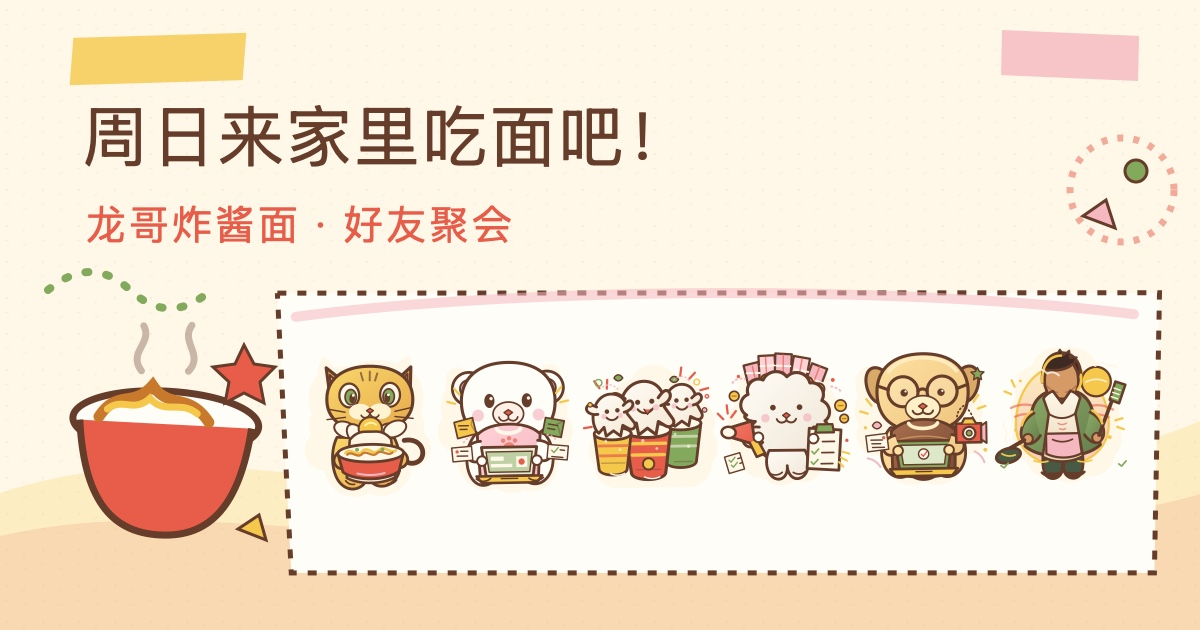
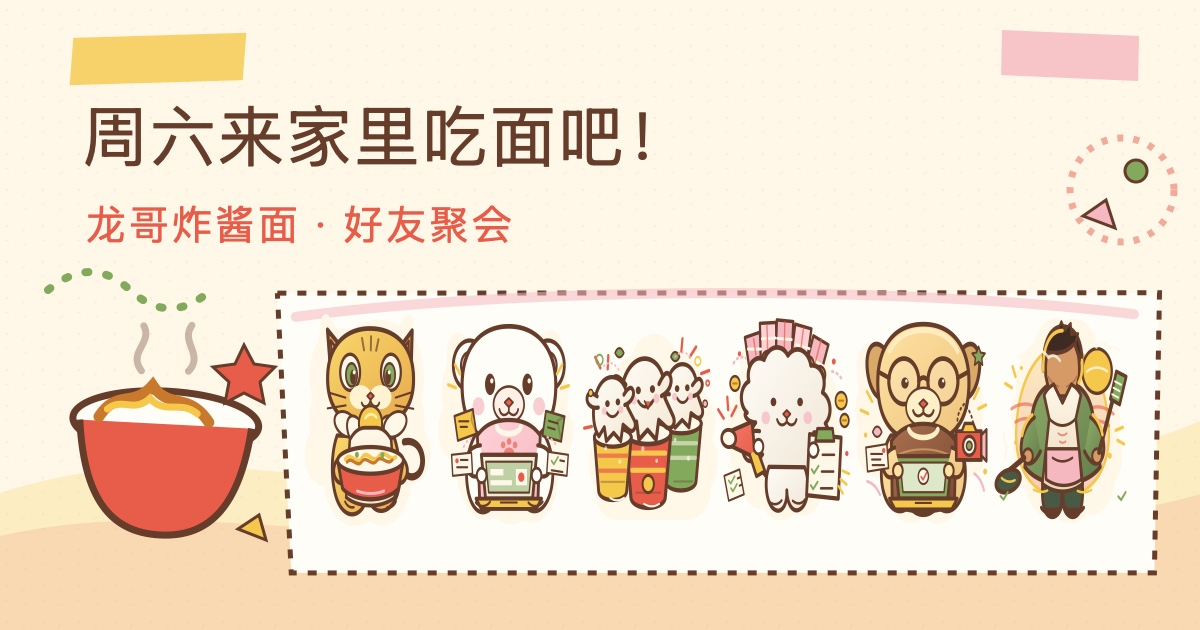
fix: update party date to Saturday

Changed region(s): [[0.2467, 0.4825, 0.9558, 0.8444], [0.1233, 0.1508, 0.185, 0.2714]]

diff --git a/index.html b/index.html
@@ -3,11 +3,11 @@
   <head>
     <meta charset="utf-8">
     <meta name="viewport" content="width=device-width, initial-scale=1">
-    <title>周日面聚会邀请</title>
-    <meta name="description" content="2026 年 7 月 19 日，来家里吃龙哥炸酱面，和朋友一起过个热闹周日。">
+    <title>周六面聚会邀请</title>
+    <meta name="description" content="2026 年 7 月 18 日，来家里吃龙哥炸酱面，和朋友一起过个热闹周六。">
     <meta name="theme-color" content="#fff8e8">
-    <meta property="og:title" content="周日来家里吃面吧！">
-    <meta property="og:description" content="龙哥炸酱面 · 好友聚会，2026.07.19 周日。">
+    <meta property="og:title" content="周六来家里吃面吧！">
+    <meta property="og:description" content="龙哥炸酱面 · 好友聚会，2026.07.18 周六。">
     <meta property="og:type" content="website">
     <meta property="og:image" content="assets/og/party-preview.jpg">
     <script>document.documentElement.classList.add('js')</script>
@@ -28,8 +28,8 @@
     <main id="main-content">
       <header class="cover" aria-labelledby="invitation-title">
         <p class="cover__eyebrow">龙哥炸酱面 · 好友聚会</p>
-        <h1 id="invitation-title">周日来家里吃面吧！</h1>
-        <time datetime="2026-07-19">2026.07.19 周日</time>
+        <h1 id="invitation-title">周六来家里吃面吧！</h1>
+        <time datetime="2026-07-18">2026.07.18 周六</time>
         <div class="cover__door" role="group" aria-label="两位主人在门口等你">
           <img src="assets/characters/blogger-dog.svg" alt="小红书千粉博主">
           <button type="button" data-action="doorbell" aria-label="按门铃">
@@ -205,7 +205,7 @@
 
       <section class="group-photo" aria-labelledby="group-photo-title" data-photo-lock>
         <p class="group-photo__lock">🔒 六个环节全部翻阅后解锁合影</p>
-        <h2 id="group-photo-title">周日合影</h2>
+        <h2 id="group-photo-title">周六合影</h2>
         <img src="assets/characters/group-photo.png" alt="四位客人与两位主人的聚会合影">
         <p>普通的一顿饭，因为是我们，就变成了值得保存的一天。</p>
         <p><strong>明天见，不见不散！</strong></p>

diff --git a/js/content.js b/js/content.js
@@ -1,9 +1,9 @@
 const address = '北京市昌平区风雅园一区 15 号楼 1 单元 303';
 
 export const eventDetails = {
-  title: '周日来家里吃面吧！',
-  date: '2026-07-19',
-  dateDisplay: '2026.07.19 周日',
+  title: '周六来家里吃面吧！',
+  date: '2026-07-18',
+  dateDisplay: '2026.07.18 周六',
   generalArrival: '15:00–16:00',
   nativeArrival: '17:00 特别登场',
   address,

diff --git a/js/app.js b/js/app.js
@@ -22,7 +22,7 @@ export function buildMapUrl(baseUrl, address) {
 export function createShareData(url) {
   return {
     title: eventDetails.title,
-    text: '周日一起吃面，打开邀请函看看吧！',
+    text: '周六一起吃面，打开邀请函看看吧！',
     url,
   };
 }

diff --git a/js/interactions.js b/js/interactions.js
@@ -257,7 +257,7 @@ export function createInteractions({
         return;
       }
       link.href = cameraPhoto.src || cameraPhoto.getAttribute?.('src');
-      link.download = '周日面聚会合影.png';
+      link.download = '周六面聚会合影.png';
       root.body.append(link);
       link.click?.();
       link.remove?.();

diff --git a/README.md b/README.md
@@ -1,4 +1,4 @@
-# 周日面聚会互动邀请函
+# 周六面聚会互动邀请函
 
 一个可直接部署到 GitHub Pages 的静态互动邀请函。页面以手账风格呈现聚会信息、来宾阵容和六个互动环节，不依赖后端服务或第三方前端库。
 